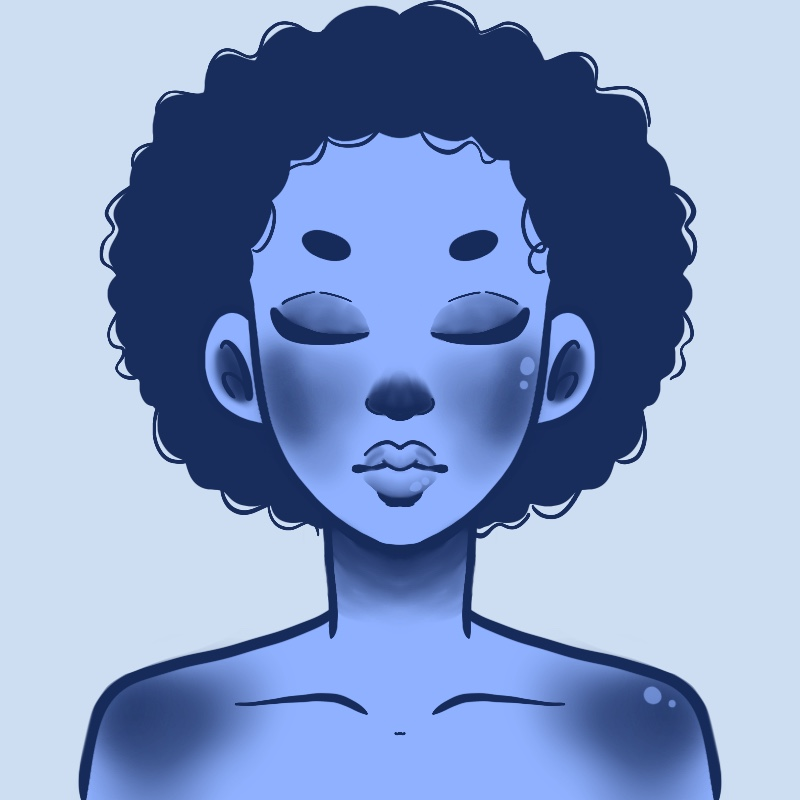
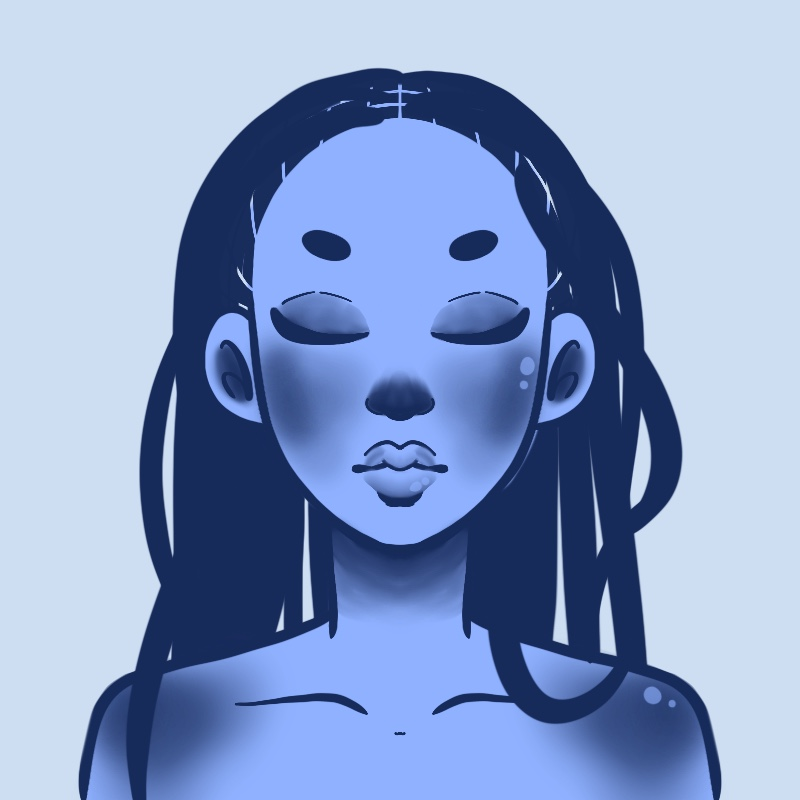
WIP responsive

diff --git a/src/App.tsx b/src/App.tsx
@@ -72,19 +72,23 @@ function App() {
             <Avatar avatarUserSettings={avatarUserSettings} />
 
             <div className="control-container">
-                <div className="tabs-container">
-                    {settingList.map((setting, i) => {
-                        return (
-                            <button
-                                className={`setting-tab ${currentSetting === setting.id ? 'active' : ''}`}
-                                key={setting.id}
-                                data-text={setting.name}
-                                onClick={() => setCurrentSetting(setting.id)}
-                            >
-                                {setting.name}
-                            </button>
-                        );
-                    })}
+                <div className="scroll">
+                    <div className="tabs-container">
+                        {settingList.map((setting, i) => {
+                            return (
+                                <button
+                                    className={`setting-tab ${currentSetting === setting.id ? 'active' : ''}`}
+                                    key={setting.id}
+                                    data-text={setting.name}
+                                    onClick={() =>
+                                        setCurrentSetting(setting.id)
+                                    }
+                                >
+                                    {setting.name}
+                                </button>
+                            );
+                        })}
+                    </div>
                 </div>
                 <div className="setting-options">
                     {CustomizationSettings.map((setting, index) => {
@@ -92,41 +96,50 @@ function App() {
                             return (
                                 <div key={index}>
                                     {setting.colorOptions ? (
-                                        <div className="colors-container">
-                                            <ColorOptionContainer
-                                                setting={setting.id}
-                                                currentColor={
-                                                    avatarUserSettings[
-                                                        setting.id
-                                                    ].color
-                                                }
-                                                colorList={setting.colorOptions}
-                                                onColorChange={
-                                                    handleColorChange
-                                                }
-                                            />
+                                        <div className="scroll">
+                                            <div className="colors-container">
+                                                <ColorOptionContainer
+                                                    setting={setting.id}
+                                                    currentColor={
+                                                        avatarUserSettings[
+                                                            setting.id
+                                                        ].color
+                                                    }
+                                                    colorList={
+                                                        setting.colorOptions
+                                                    }
+                                                    onColorChange={
+                                                        handleColorChange
+                                                    }
+                                                />
+                                            </div>
                                         </div>
                                     ) : null}
                                     {
                                         setting.attributes.length === 1 ? (
-                                            <div className="shapes-container">
-                                                {setting.attributes[0].options.map(
-                                                    (option, i) => (
-                                                        <ShapeOptionContainer
-                                                            currentShape={
-                                                                avatarUserSettings[
+                                            <div className="scroll">
+                                                <div className="shapes-container">
+                                                    {setting.attributes[0].options.map(
+                                                        (option, i) => (
+                                                            <ShapeOptionContainer
+                                                                currentShape={
+                                                                    avatarUserSettings[
+                                                                        setting
+                                                                            .id
+                                                                    ].id
+                                                                }
+                                                                setting={
                                                                     setting.id
-                                                                ].id
-                                                            }
-                                                            setting={setting.id}
-                                                            option={option}
-                                                            onShapeChange={
-                                                                handleShapeChange
-                                                            }
-                                                            key={`setting-${i}`}
-                                                        />
-                                                    )
-                                                )}
+                                                                }
+                                                                option={option}
+                                                                onShapeChange={
+                                                                    handleShapeChange
+                                                                }
+                                                                key={`setting-${i}`}
+                                                            />
+                                                        )
+                                                    )}
+                                                </div>
                                             </div>
                                         ) : null // handle multiple attributes here
                                     }

diff --git a/src/constants/CustomizationSettings.tsx b/src/constants/CustomizationSettings.tsx
@@ -4,10 +4,17 @@ import hair3 from '../assets/thumbnails/hair/hair3.jpg';
 import hair4 from '../assets/thumbnails/hair/hair4.jpg';
 import hair5 from '../assets/thumbnails/hair/hair5.jpg';
 import hair6 from '../assets/thumbnails/hair/hair6.jpg';
+import hair7 from '../assets/thumbnails/hair/hair7.jpg';
 import face1 from '../assets/thumbnails/face/face1.jpg';
 import face2 from '../assets/thumbnails/face/face2.jpg';
 import face3 from '../assets/thumbnails/face/face3.jpg';
 import face4 from '../assets/thumbnails/face/face4.jpg';
+import eyebrows1 from '../assets/thumbnails/eyebrows/eyebrows1.jpg';
+import eyebrows2 from '../assets/thumbnails/eyebrows/eyebrows2.jpg';
+import eyebrows3 from '../assets/thumbnails/eyebrows/eyebrows3.jpg';
+import eyebrows4 from '../assets/thumbnails/eyebrows/eyebrows4.jpg';
+import eyebrows5 from '../assets/thumbnails/eyebrows/eyebrows5.jpg';
+import eyebrows6 from '../assets/thumbnails/eyebrows/eyebrows6.jpg';
 import {
     eyebrowsColor,
     eyesColor,
@@ -81,6 +88,7 @@ export const CustomizationSettings: Category[] = [
                     { id: 'hair-4', preview: hair4, svgRef: '' },
                     { id: 'hair-5', preview: hair5, svgRef: '' },
                     { id: 'hair-6', preview: hair6, svgRef: '' },
+                    { id: 'hair-7', preview: hair7, svgRef: '' },
                 ],
             },
         ],
@@ -95,9 +103,12 @@ export const CustomizationSettings: Category[] = [
                 name: 'Eyebrows shape',
                 type: 'shape',
                 options: [
-                    { id: 'eyebrows-shape1', preview: '', svgRef: '' },
-                    { id: 'eyebrows-shape2', preview: '', svgRef: '' },
-                    { id: 'eyebrows-shape3', preview: '', svgRef: '' },
+                    { id: 'eyebrows-shape1', preview: eyebrows1, svgRef: '' },
+                    { id: 'eyebrows-shape2', preview: eyebrows2, svgRef: '' },
+                    { id: 'eyebrows-shape3', preview: eyebrows3, svgRef: '' },
+                    { id: 'eyebrows-shape4', preview: eyebrows4, svgRef: '' },
+                    { id: 'eyebrows-shape5', preview: eyebrows5, svgRef: '' },
+                    { id: 'eyebrows-shape6', preview: eyebrows6, svgRef: '' },
                 ],
             },
         ],

diff --git a/src/App.scss b/src/App.scss
@@ -7,9 +7,9 @@
     position: absolute;
 }
 .control-container {
-    height: 30vh;
+    height: 100%;
     max-width: 1400px;
-    width: 100%;
+    //width: 100%;
     align-items: center;
     border-radius: 40px 40px 0 0;
     background-color: white;
@@ -20,9 +20,21 @@
     position: relative;
     top: -130px;
 }
+.scroll {
+    width: calc(100vw - 20px);
+    overflow: scroll;
+    margin-bottom: 10px;
+    padding: 4px 0 0 20px;
+    margin: 0 -40px;
+    &::-webkit-scrollbar {
+        display: none;
+    }
+}
 .tabs-container {
-    margin: auto;
-    width: 100%;
+    margin: 10px auto;
+    width: 100vw;
+    display: flex;
+    gap: 20px;
 }
 .setting-tab {
     font-family: Nunito;
@@ -31,7 +43,7 @@
     font-size: 20px;
     border: none;
     cursor: pointer;
-    padding: 10px 10px;
+    padding: 0px;
     font-weight: 500;
     max-width: auto;
     transition:
@@ -58,7 +70,8 @@
 .colors-container {
     margin-bottom: 20px;
     display: flex;
-    flex-direction: row;
+    width: fit-content;
+
     gap: 10px;
 
     .color-picker {
@@ -66,7 +79,10 @@
         width: 40px;
         border-radius: 10px;
         border: none;
-        transition: 0.3s scale;
+        transition:
+            0.3s scale,
+            0.3s opacity;
+        cursor: pointer;
 
         &.active {
             outline: 2px solid #3959f8;
@@ -75,6 +91,9 @@
 
         &:active {
             scale: 0.95;
+        }
+        &:hover {
+            opacity: 0.8;
         }
     }
     #color-picker {
@@ -108,10 +127,30 @@
     display: flex;
     flex-direction: row;
     gap: 10px;
+    display: flex;
+    width: fit-content;
+    padding: 4px 0;
+
+    gap: 10px;
     .shape-picker {
         height: 90px;
         width: 90px;
         border-radius: 10px;
-        border: solid 2px;
+        border: none;
+        transition:
+            0.3s scale,
+            0.3s opacity;
+        cursor: pointer;
+        &.active {
+            outline: 2px solid #3959f8;
+            outline-offset: 2px;
+        }
+
+        &:active {
+            scale: 0.95;
+        }
+        &:hover {
+            opacity: 0.8;
+        }
     }
 }

diff --git a/src/index.css b/src/index.css
@@ -1,5 +1,5 @@
 #root {
-height: 100vh;
+/* height: 100vh; */
 flex-direction: column;
 display: flex;
 }
@@ -18,8 +18,10 @@ body {
   background-image: url('./assets/studio.png');
   background-size: 130%;
   background-repeat: no-repeat;
-  min-height: 100vh;
+  max-height: 100vh;
+  height: 100%;
   min-width: 100vw;
+  overflow: hidden;
   margin: 0;
 }
 

diff --git a/src/components/Hair/scalp/BraidedScalp.tsx b/src/components/Hair/scalp/BraidedScalp.tsx
@@ -12,7 +12,7 @@ const BraidedScalp = ({ color }: Prop) => (
         <g>
             <Paths color={color} />
         </g>
-        <g style={{ opacity: 0.4 }}>
+        <g style={{ opacity: 0.6 }}>
             <Paths color="black" />
         </g>
         <path
